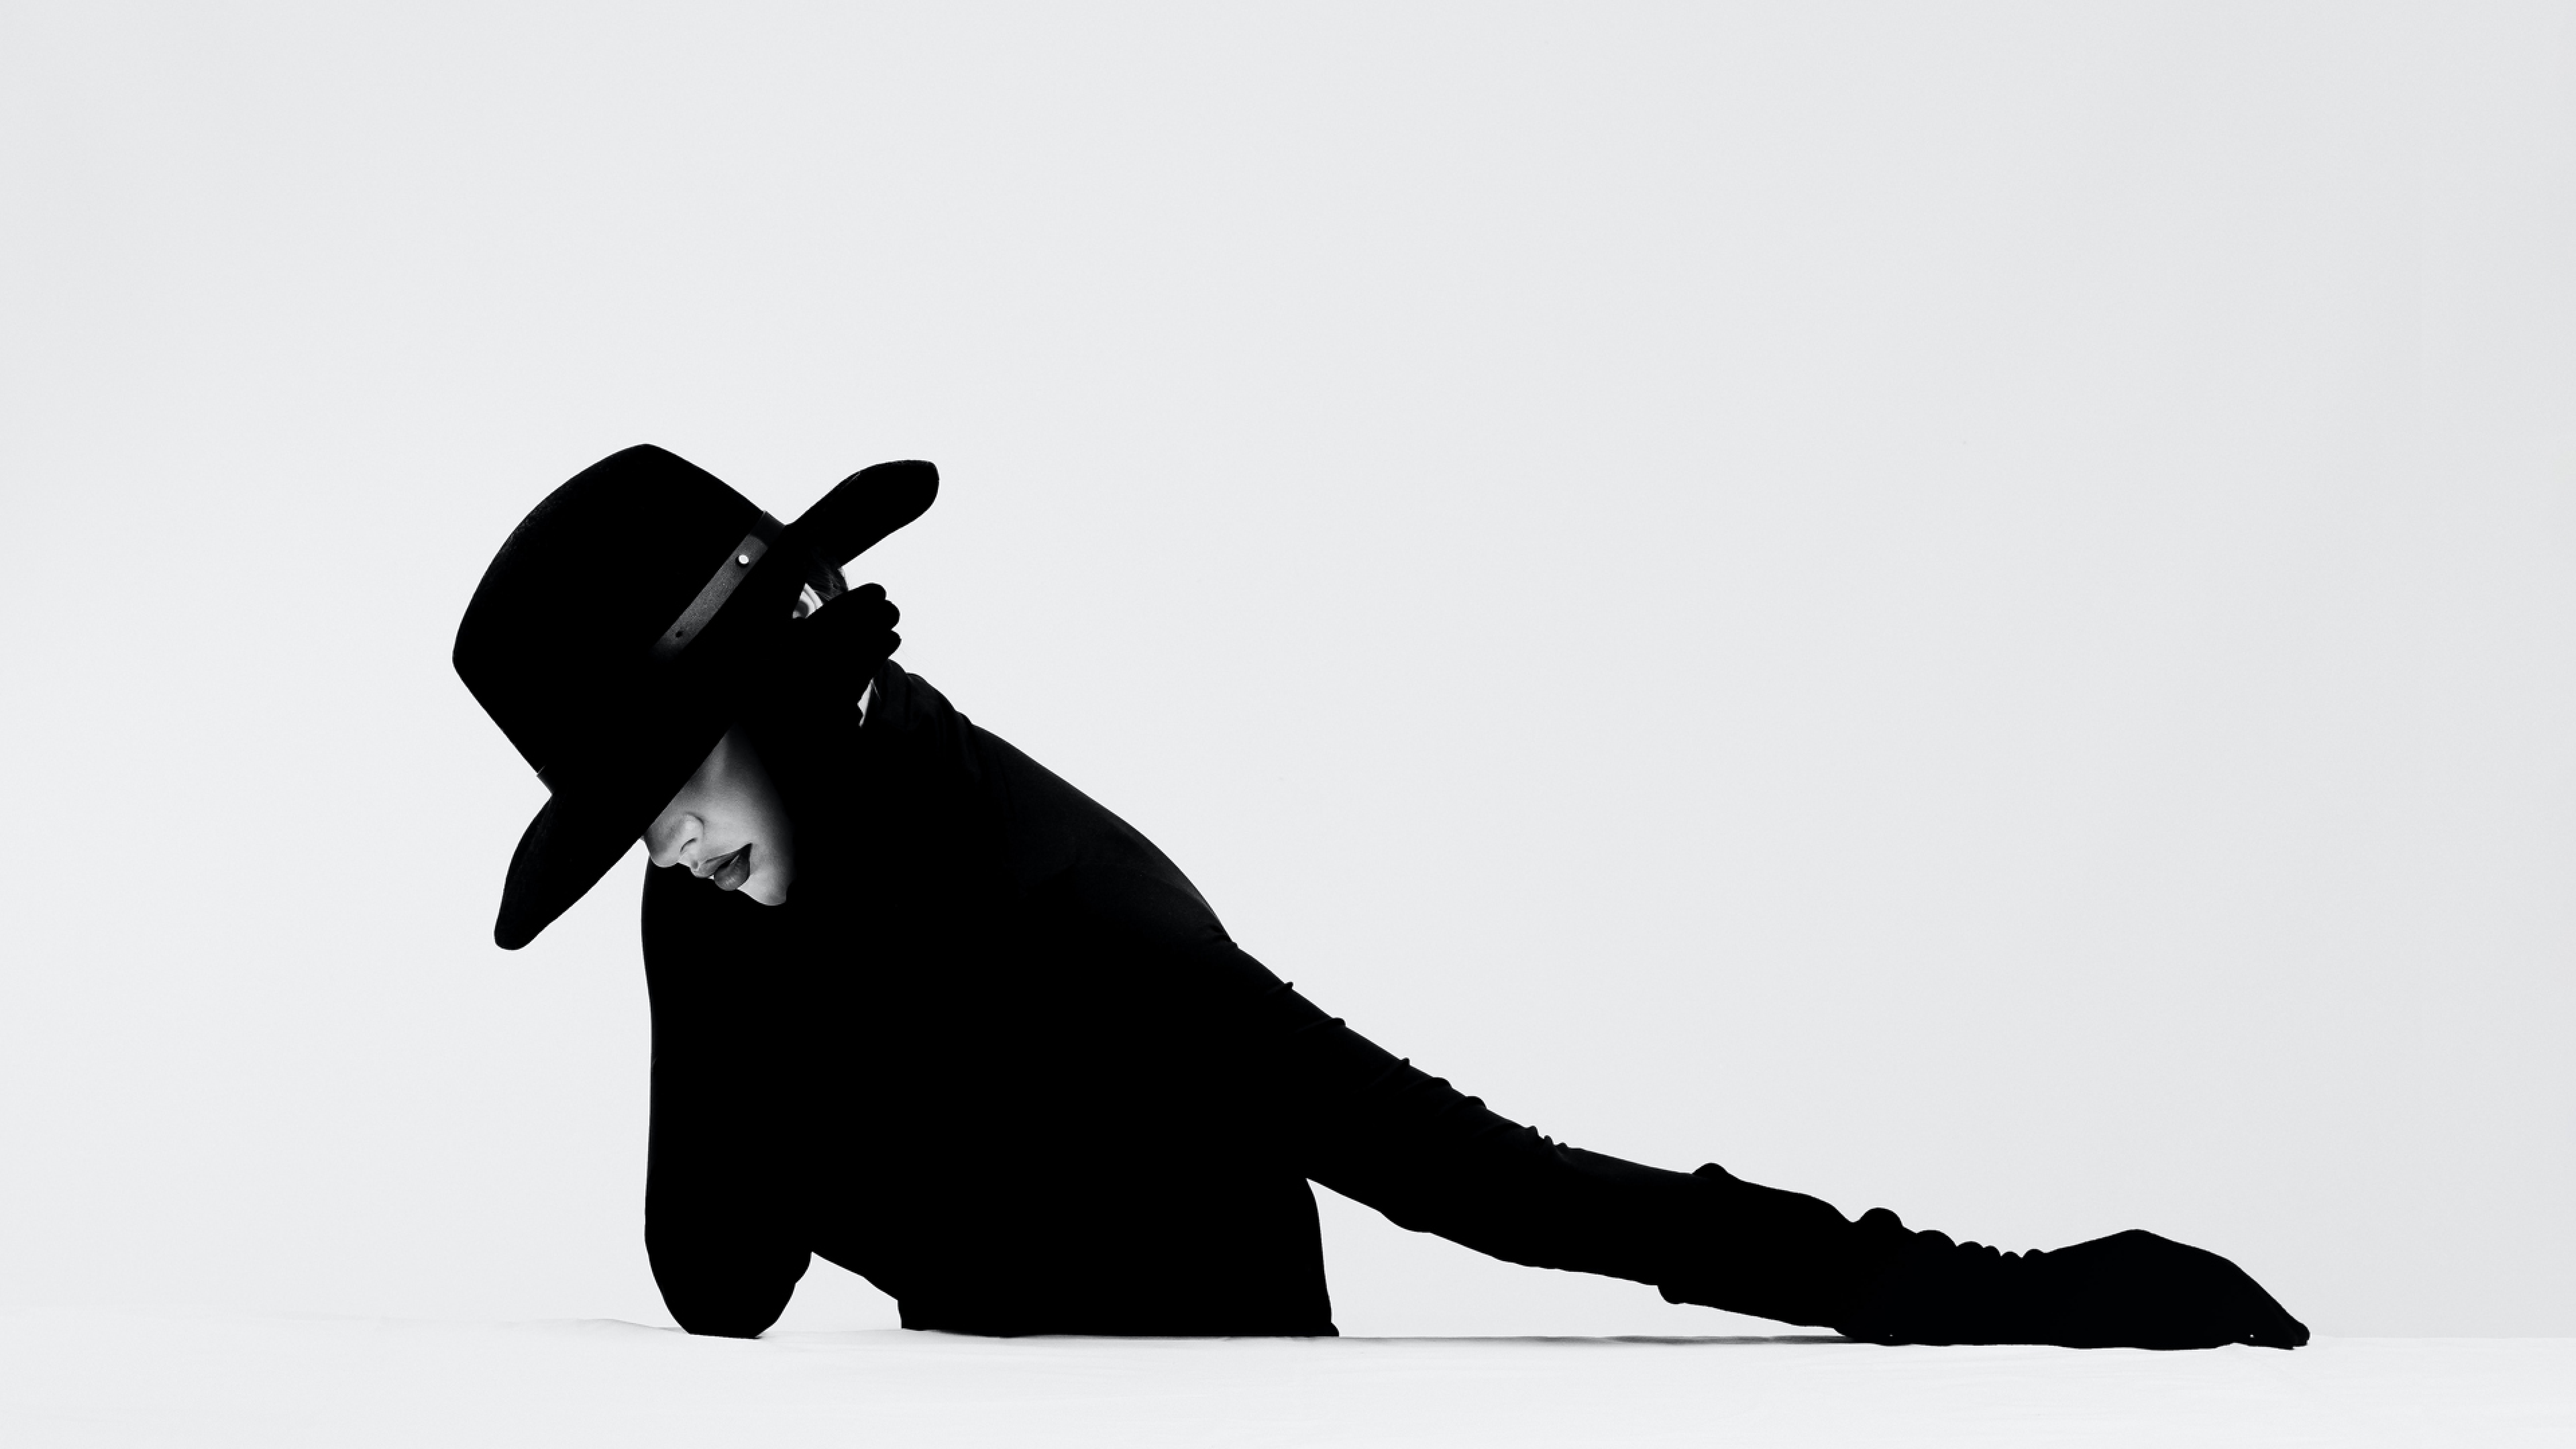
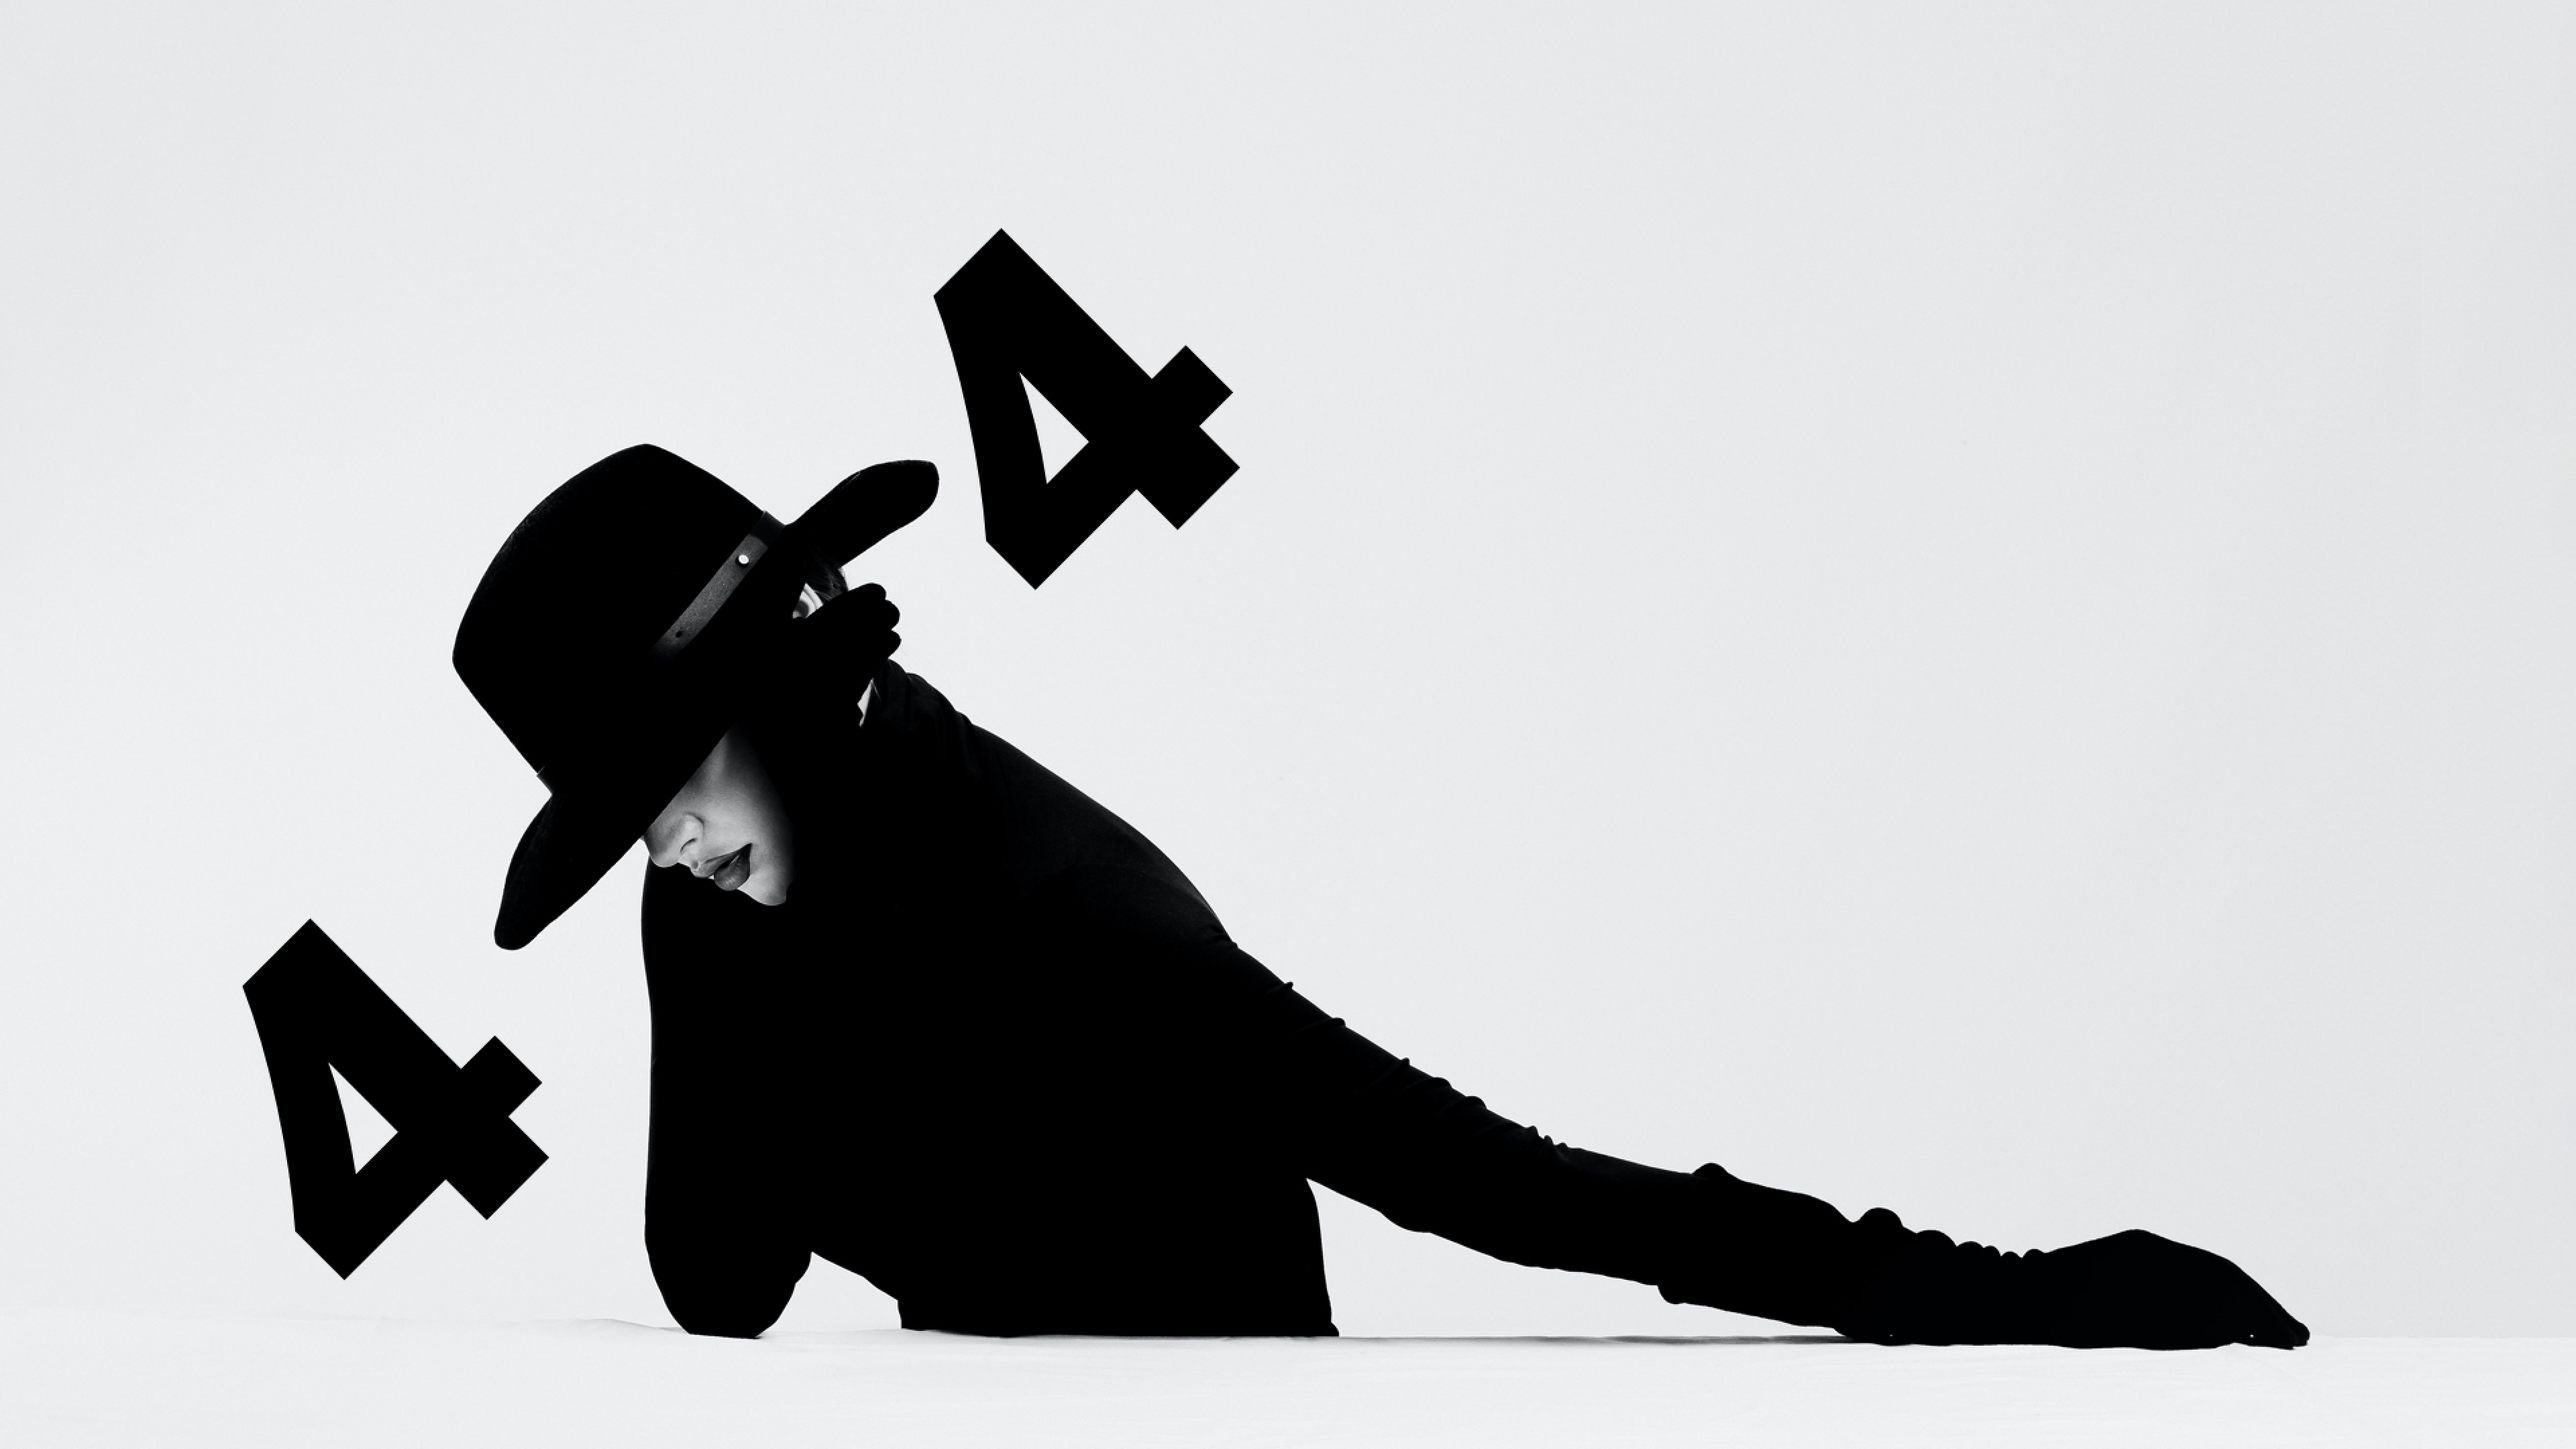
added 404 page

Changed region(s): [[0.0938, 0.6204, 0.2188, 0.8995], [0.3438, 0.1551, 0.5, 0.4032]]

diff --git a/styles/pages/page-not-found.module.scss b/styles/pages/page-not-found.module.scss
@@ -1,0 +1,75 @@
+
+
+.background {
+  background-image: url("../../public/background1.png");
+  background-size: cover;
+  width: 100vw;
+  height: 100vh;  
+}
+
+.content{
+    position: absolute;
+    top: 30vh;
+    width: 400px;
+    right: 15vw;
+
+    h1{
+        font-size: 40px;
+  
+    }
+}
+
+@media all and (max-width: 1280px){
+    .content{
+        right: 5vw
+    }
+}
+
+@media all and (max-width: 1150px){
+    .content{
+        right: 2vw;
+        width: 350px;
+    }
+}
+
+@media all and (max-width: 1050px){
+    .content{
+        right: 2vw;
+        width: 300px;
+    }
+}
+
+@media all and (max-width: 1000px){
+    .content{
+        right: 2vw;
+        width: 250px;
+    }
+}
+
+@media all and (max-width: 920px){
+    .content{
+        width: 500px;
+        top: 70px;
+        left: 50%;
+        transform: translateX(-50%);
+
+    }
+
+    .background {
+        background-image: url("../../public/background2.png");
+      }
+}
+
+@media all and (max-width: 500px){
+    .content{
+        width: 300px;
+        top: 10px;
+        left: 50%;
+        transform: translateX(-50%);
+
+    }
+
+    .background {
+        background-image: url("../../public/background3.png");
+      }
+}

diff --git a/pages/page-not-found.tsx b/pages/page-not-found.tsx
@@ -1,14 +1,24 @@
 import { NextPage } from "next"
-import Image from "next/image"
 import React from "react"
-import image from "../public/background1.png"
-import s from "../styles/theme/page-not-found.module.scss"
+import { Button } from "UI"
+import s from "../styles/pages/page-not-found.module.scss"
 
 const PageNotFound: NextPage = () => {
   return (
+      <>
     <div className={s.background}>
-      <Image src={image} />
+      
     </div>
+    <div className={s.content}>
+        <h1>Page Not Found</h1>
+        <p>
+          Lorem ipsum dolor sit amet, consectetur adipiscing elit. Nulla varius
+          porta pharetra. Curabitur dolor sit amet venenatis purus ante.
+        </p>
+        <br />
+        <Button className={s.button_purple}>Return to homepage</Button>
+      </div>
+    </>
   )
 }
 
